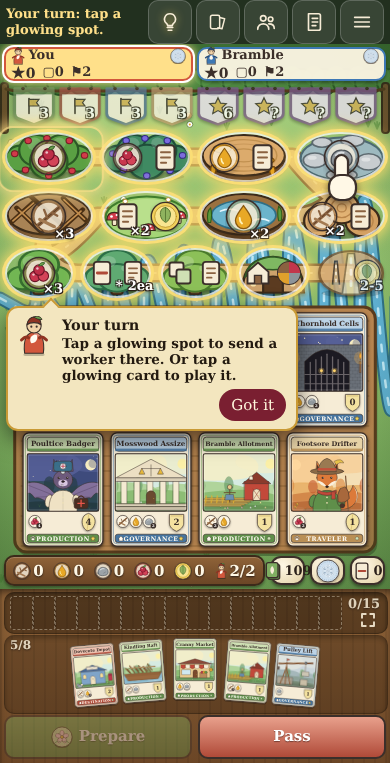
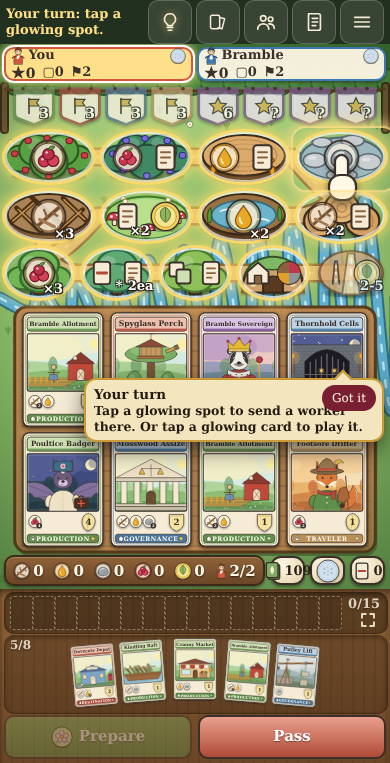
Hollowbough: compact help bubbles that avoid button centres, bulb no longer cancels an open choice, help screenshots

Changed region(s): [[0.0, 0.3919, 1.0, 0.6029], [0.0, 0.1507, 0.3077, 0.2713], [0.7385, 0.1507, 1.0, 0.2713]]

diff --git a/games-src/hollowbough/game/hollowbough.html b/games-src/hollowbough/game/hollowbough.html
@@ -621,6 +621,15 @@ html.cb .pawnw .gx-cbm{display:block}
 .gx-ref-pic .cd{flex:none}
 .gx-ref-pic .its{display:flex;flex-wrap:wrap;gap:2px;justify-content:center}
 .gx-ref-pic.big .its{gap:8px}
+/* help kit: a compact bubble (title, two lines, Got it on the title row) so it fits between the rows of the board without covering a place */
+.gxh-bub{max-width:min(300px,calc(100vw - 12px));padding:6px 8px}
+.gxh-bub .gxh-bd{display:block}
+.gxh-bub .gxh-sp{display:none}
+.gxh-bub .gxh-tt{font-size:13.5px;margin:0 0 1px;padding-right:70px}
+.gxh-bub .gxh-tx{font-size:12.5px;line-height:1.25}
+.gxh-bub .gxh-row2{position:absolute;top:5px;right:6px;margin:0}
+.gxh-bub .gxh-ok{min-height:26px;padding:0 10px;font-size:12px}
+.gxh-bub.gxh-bulbb .gxh-row2{position:static;margin-top:2px}
 </style></head>
 <body>
 <div class="gx-app">
@@ -5205,6 +5214,7 @@ function renderBoard() {
   renderPrompt();
   renderBar();
   placeFinger();
+  if (typeof hlpMarks === 'function' && G.phase !== 'over') hlpMarks();
 }
 // the whole city, full screen: 15 slots in a grid. Usable destinations glow here just as in the strip; tap outside to close.
 function cityOverlay(me, list, cityCard) {
@@ -5716,7 +5726,7 @@ document.addEventListener('click', ev => {
   const z = $('#zoom'); if (z && !z.hidden) { closeZoom(); return; }
   if (UI.lp) { UI.lp = false; return; }
   const t = ev.target.closest('[data-a],[data-start]');
-  if (!t) { if (UI.sel) { UI.sel = null; render(); } return; }
+  if (!t) { if (UI.sel && !ev.target.closest('[data-help]')) { UI.sel = null; render(); } return; }   // help (bulb, bubbles, rules cards) must not cancel an open choice
   const a = t.dataset.a, d = t.dataset;
   if (netClick(a, t)) return;
   if (d.start && !a) { newGame(d.start); return; }
@@ -6075,7 +6085,7 @@ const hq = s => () => document.querySelector(s);
 const hfirst = (...sels) => () => { for (const s of sels) { const e = document.querySelector(s); if (e && e.getBoundingClientRect().width) return e; } return null; };
 const HLP_STEPS = {
   turn: { target: () => { try { const m = UI.rec && UI.rec.m, e = m && hlpEl(m); if (e && e.getBoundingClientRect().width) return e; } catch (x) { } return hfirst('#bd .tile.glow', '#bd .glow:not(.tchip)', '#acts .btn')(); }, title: 'Your turn', text: 'Tap a glowing spot to send a worker there. Or tap a glowing card to play it.', pic: () => hnode(HP.worker) },
-  prepare: { target: hfirst('#acts .prep'), title: 'Prepare for next season', text: 'All your workers are out. Tap Prepare: they come home and you gain more workers.', pic: () => hnode(() => HP.season(1)) },
+  prepare: { target: hfirst('#acts .prep'), title: 'Time to prepare', text: 'All workers are out. Tap Prepare: they come home and you gain more.', pic: () => hnode(() => HP.season(1)) },
   lastCall: { target: hfirst('#acts .pass', '#acts .btn'), title: 'Nothing left to do?', text: 'Play a card if you can. Otherwise tap Pass twice: your city still scores.', pic: () => hnode(HP.tree) },
   how: { target: hfirst('#acts .tchip'), title: 'Choose how', text: 'This can be done in several ways. Tap the option you want.', pic: () => hnode(HP.cost) },
   pickCard: { target: hfirst('#bd .glow:not(.tchip)', '#acts .tchip'), title: 'Pick a card', text: 'The power needs a card. Tap one that glows.', pic: () => hnode(HP.card) },
@@ -6172,6 +6182,20 @@ function hlpSuggest() {
   return { why: hlpWhy(m, a), key: mk, m, target: () => { const e = hlpEl(m); return hlpEl(m); } };
 }
 // ---------------------------------------------------------------- wiring
+// the middle of every button is a spot a bubble must not cover (the kit avoids [data-gxh-avoid]); invisible 2px markers, redrawn with the board
+function hlpMarks() {
+  document.querySelectorAll('i.gxm').forEach(e => e.remove());
+  if (!G || !UI.started) return;
+  const W = innerWidth, H = innerHeight, f = document.createDocumentFragment();
+  document.querySelectorAll('button').forEach(b => {
+    if (b.closest('[data-help],[hidden],#start,#netbox')) return;
+    const r = b.getBoundingClientRect(); if (r.width < 4 || r.height < 4) return;
+    const x = r.left + r.width / 2, y = r.top + r.height / 2; if (x < 0 || y < 0 || x > W || y > H) return;
+    const m = document.createElement('i'); m.className = 'gxm'; m.setAttribute('data-gxh-avoid', ''); m.setAttribute('aria-hidden', 'true');
+    m.style.cssText = 'position:fixed;pointer-events:none;width:2px;height:2px;left:' + Math.round(x - 1) + 'px;top:' + Math.round(y - 1) + 'px'; f.appendChild(m);
+  });
+  document.body.appendChild(f);
+}
 let _hlpInit = false;
 function hlpInit() {
   if (_hlpInit || typeof GXH === 'undefined') return; _hlpInit = true;
@@ -6179,7 +6203,7 @@ function hlpInit() {
   GXH.bulb({ el: '#bulbbtn', suggest: hlpSuggest, rulesFor: hlpPhase });
 }
 function hlpAfter() {
-  hlpInit(); if (typeof GXH === 'undefined') return;
+  hlpInit(); hlpMarks(); clearTimeout(UI.hmk); UI.hmk = setTimeout(hlpMarks, 200);   // again just before a bubble is placed (things may still be moving) if (typeof GXH === 'undefined') return;
   const st = $('#start'), nb = $('#netbox');
   GXH.phase(!G || !UI.started || (st && !st.hidden) || (nb && !nb.hidden) ? null : hlpPhase());
 }

diff --git a/games-src/hollowbough/game/ui.js b/games-src/hollowbough/game/ui.js
@@ -432,6 +432,7 @@ function renderBoard() {
   renderPrompt();
   renderBar();
   placeFinger();
+  if (typeof hlpMarks === 'function' && G.phase !== 'over') hlpMarks();
 }
 // the whole city, full screen: 15 slots in a grid. Usable destinations glow here just as in the strip; tap outside to close.
 function cityOverlay(me, list, cityCard) {
@@ -943,7 +944,7 @@ document.addEventListener('click', ev => {
   const z = $('#zoom'); if (z && !z.hidden) { closeZoom(); return; }
   if (UI.lp) { UI.lp = false; return; }
   const t = ev.target.closest('[data-a],[data-start]');
-  if (!t) { if (UI.sel) { UI.sel = null; render(); } return; }
+  if (!t) { if (UI.sel && !ev.target.closest('[data-help]')) { UI.sel = null; render(); } return; }   // help (bulb, bubbles, rules cards) must not cancel an open choice
   const a = t.dataset.a, d = t.dataset;
   if (netClick(a, t)) return;
   if (d.start && !a) { newGame(d.start); return; }
@@ -1302,7 +1303,7 @@ const hq = s => () => document.querySelector(s);
 const hfirst = (...sels) => () => { for (const s of sels) { const e = document.querySelector(s); if (e && e.getBoundingClientRect().width) return e; } return null; };
 const HLP_STEPS = {
   turn: { target: () => { try { const m = UI.rec && UI.rec.m, e = m && hlpEl(m); if (e && e.getBoundingClientRect().width) return e; } catch (x) { } return hfirst('#bd .tile.glow', '#bd .glow:not(.tchip)', '#acts .btn')(); }, title: 'Your turn', text: 'Tap a glowing spot to send a worker there. Or tap a glowing card to play it.', pic: () => hnode(HP.worker) },
-  prepare: { target: hfirst('#acts .prep'), title: 'Prepare for next season', text: 'All your workers are out. Tap Prepare: they come home and you gain more workers.', pic: () => hnode(() => HP.season(1)) },
+  prepare: { target: hfirst('#acts .prep'), title: 'Time to prepare', text: 'All workers are out. Tap Prepare: they come home and you gain more.', pic: () => hnode(() => HP.season(1)) },
   lastCall: { target: hfirst('#acts .pass', '#acts .btn'), title: 'Nothing left to do?', text: 'Play a card if you can. Otherwise tap Pass twice: your city still scores.', pic: () => hnode(HP.tree) },
   how: { target: hfirst('#acts .tchip'), title: 'Choose how', text: 'This can be done in several ways. Tap the option you want.', pic: () => hnode(HP.cost) },
   pickCard: { target: hfirst('#bd .glow:not(.tchip)', '#acts .tchip'), title: 'Pick a card', text: 'The power needs a card. Tap one that glows.', pic: () => hnode(HP.card) },
@@ -1399,6 +1400,20 @@ function hlpSuggest() {
   return { why: hlpWhy(m, a), key: mk, m, target: () => { const e = hlpEl(m); return hlpEl(m); } };
 }
 // ---------------------------------------------------------------- wiring
+// the middle of every button is a spot a bubble must not cover (the kit avoids [data-gxh-avoid]); invisible 2px markers, redrawn with the board
+function hlpMarks() {
+  document.querySelectorAll('i.gxm').forEach(e => e.remove());
+  if (!G || !UI.started) return;
+  const W = innerWidth, H = innerHeight, f = document.createDocumentFragment();
+  document.querySelectorAll('button').forEach(b => {
+    if (b.closest('[data-help],[hidden],#start,#netbox')) return;
+    const r = b.getBoundingClientRect(); if (r.width < 4 || r.height < 4) return;
+    const x = r.left + r.width / 2, y = r.top + r.height / 2; if (x < 0 || y < 0 || x > W || y > H) return;
+    const m = document.createElement('i'); m.className = 'gxm'; m.setAttribute('data-gxh-avoid', ''); m.setAttribute('aria-hidden', 'true');
+    m.style.cssText = 'position:fixed;pointer-events:none;width:2px;height:2px;left:' + Math.round(x - 1) + 'px;top:' + Math.round(y - 1) + 'px'; f.appendChild(m);
+  });
+  document.body.appendChild(f);
+}
 let _hlpInit = false;
 function hlpInit() {
   if (_hlpInit || typeof GXH === 'undefined') return; _hlpInit = true;
@@ -1406,7 +1421,7 @@ function hlpInit() {
   GXH.bulb({ el: '#bulbbtn', suggest: hlpSuggest, rulesFor: hlpPhase });
 }
 function hlpAfter() {
-  hlpInit(); if (typeof GXH === 'undefined') return;
+  hlpInit(); hlpMarks(); clearTimeout(UI.hmk); UI.hmk = setTimeout(hlpMarks, 200);   // again just before a bubble is placed (things may still be moving) if (typeof GXH === 'undefined') return;
   const st = $('#start'), nb = $('#netbox');
   GXH.phase(!G || !UI.started || (st && !st.hidden) || (nb && !nb.hidden) ? null : hlpPhase());
 }

diff --git a/games-src/hollowbough/game/src/ui11.js b/games-src/hollowbough/game/src/ui11.js
@@ -18,7 +18,7 @@ const hq = s => () => document.querySelector(s);
 const hfirst = (...sels) => () => { for (const s of sels) { const e = document.querySelector(s); if (e && e.getBoundingClientRect().width) return e; } return null; };
 const HLP_STEPS = {
   turn: { target: () => { try { const m = UI.rec && UI.rec.m, e = m && hlpEl(m); if (e && e.getBoundingClientRect().width) return e; } catch (x) { } return hfirst('#bd .tile.glow', '#bd .glow:not(.tchip)', '#acts .btn')(); }, title: 'Your turn', text: 'Tap a glowing spot to send a worker there. Or tap a glowing card to play it.', pic: () => hnode(HP.worker) },
-  prepare: { target: hfirst('#acts .prep'), title: 'Prepare for next season', text: 'All your workers are out. Tap Prepare: they come home and you gain more workers.', pic: () => hnode(() => HP.season(1)) },
+  prepare: { target: hfirst('#acts .prep'), title: 'Time to prepare', text: 'All workers are out. Tap Prepare: they come home and you gain more.', pic: () => hnode(() => HP.season(1)) },
   lastCall: { target: hfirst('#acts .pass', '#acts .btn'), title: 'Nothing left to do?', text: 'Play a card if you can. Otherwise tap Pass twice: your city still scores.', pic: () => hnode(HP.tree) },
   how: { target: hfirst('#acts .tchip'), title: 'Choose how', text: 'This can be done in several ways. Tap the option you want.', pic: () => hnode(HP.cost) },
   pickCard: { target: hfirst('#bd .glow:not(.tchip)', '#acts .tchip'), title: 'Pick a card', text: 'The power needs a card. Tap one that glows.', pic: () => hnode(HP.card) },
@@ -115,6 +115,20 @@ function hlpSuggest() {
   return { why: hlpWhy(m, a), key: mk, m, target: () => { const e = hlpEl(m); return hlpEl(m); } };
 }
 // ---------------------------------------------------------------- wiring
+// the middle of every button is a spot a bubble must not cover (the kit avoids [data-gxh-avoid]); invisible 2px markers, redrawn with the board
+function hlpMarks() {
+  document.querySelectorAll('i.gxm').forEach(e => e.remove());
+  if (!G || !UI.started) return;
+  const W = innerWidth, H = innerHeight, f = document.createDocumentFragment();
+  document.querySelectorAll('button').forEach(b => {
+    if (b.closest('[data-help],[hidden],#start,#netbox')) return;
+    const r = b.getBoundingClientRect(); if (r.width < 4 || r.height < 4) return;
+    const x = r.left + r.width / 2, y = r.top + r.height / 2; if (x < 0 || y < 0 || x > W || y > H) return;
+    const m = document.createElement('i'); m.className = 'gxm'; m.setAttribute('data-gxh-avoid', ''); m.setAttribute('aria-hidden', 'true');
+    m.style.cssText = 'position:fixed;pointer-events:none;width:2px;height:2px;left:' + Math.round(x - 1) + 'px;top:' + Math.round(y - 1) + 'px'; f.appendChild(m);
+  });
+  document.body.appendChild(f);
+}
 let _hlpInit = false;
 function hlpInit() {
   if (_hlpInit || typeof GXH === 'undefined') return; _hlpInit = true;
@@ -122,7 +136,7 @@ function hlpInit() {
   GXH.bulb({ el: '#bulbbtn', suggest: hlpSuggest, rulesFor: hlpPhase });
 }
 function hlpAfter() {
-  hlpInit(); if (typeof GXH === 'undefined') return;
+  hlpInit(); hlpMarks(); clearTimeout(UI.hmk); UI.hmk = setTimeout(hlpMarks, 200);   // again just before a bubble is placed (things may still be moving) if (typeof GXH === 'undefined') return;
   const st = $('#start'), nb = $('#netbox');
   GXH.phase(!G || !UI.started || (st && !st.hidden) || (nb && !nb.hidden) ? null : hlpPhase());
 }

diff --git a/games-src/hollowbough/game/sweep.js b/games-src/hollowbough/game/sweep.js
@@ -89,7 +89,7 @@ async function playGame(browser, W, H, gi, mode) {
           if (!r.why || wc(r.why) > 15) fail(tag, 'bulb why ' + wc(r.why) + ' words: ' + r.why); if (!r.link) fail(tag, 'bulb bubble has no "How does this work?"');
           { const bad = await p.evaluate(() => { const W = innerWidth, Hh = innerHeight, b = document.querySelector('.gxh-bub.on'); if (!b) return []; const r = b.getBoundingClientRect(); return (r.left < -1 || r.top < -1 || r.right > W + 1 || r.bottom > Hh + 1) ? ['bulb bubble outside the screen'] : []; }); bad.forEach(x => fail(tag, x)); }
           if (R() < .5 && r.link) { const lk = await p.$('.gxh-bub .gxh-link'); const lb = lk && await lk.boundingBox(); if (lb) { await p.touchscreen.tap(lb.x + lb.width / 2, lb.y + lb.height / 2); await sleep(250); await rulesCheck(hs.ph); } }
-          else { await p.touchscreen.tap(...NEUTRAL); await sleep(150); }
+          else if (!(await p.evaluate(() => !!UI.sel))) { await p.touchscreen.tap(...NEUTRAL); await sleep(150); }
         } else { HT.nul++; if (r.f) fail(tag, 'bulb with no suggestion still pointed a finger (' + hs.ph + ')'); if (!r.rules) fail(tag, 'bulb with no suggestion did not open the rules (' + hs.ph + ')'); else await rulesCheck(hs.ph); }
         await p.evaluate(() => GXH.hide());
         const a = await p.evaluate(() => ({ g: !!document.querySelector('.gxh-bub,.gxh-ring,.gxh-finger,.gxh-rules'), sig: G.logN + '|' + (UI.sel ? 's' : '') + '|' + (G.q ? G.q.kind : '') }));

diff --git a/games-src/hollowbough/game/src/ui6.js b/games-src/hollowbough/game/src/ui6.js
@@ -72,7 +72,7 @@ document.addEventListener('click', ev => {
   const z = $('#zoom'); if (z && !z.hidden) { closeZoom(); return; }
   if (UI.lp) { UI.lp = false; return; }
   const t = ev.target.closest('[data-a],[data-start]');
-  if (!t) { if (UI.sel) { UI.sel = null; render(); } return; }
+  if (!t) { if (UI.sel && !ev.target.closest('[data-help]')) { UI.sel = null; render(); } return; }   // help (bulb, bubbles, rules cards) must not cancel an open choice
   const a = t.dataset.a, d = t.dataset;
   if (netClick(a, t)) return;
   if (d.start && !a) { newGame(d.start); return; }

diff --git a/games-src/hollowbough/game/head.html b/games-src/hollowbough/game/head.html
@@ -287,7 +287,7 @@ html.cb .pawnw .gx-cbm{display:block}
 .gx-ref-pic .its{display:flex;flex-wrap:wrap;gap:2px;justify-content:center}
 .gx-ref-pic.big .its{gap:8px}
 /* help kit: a compact bubble (title, two lines, Got it on the title row) so it fits between the rows of the board without covering a place */
-.gxh-bub{max-width:min(358px,calc(100vw - 12px));padding:6px 8px}
+.gxh-bub{max-width:min(300px,calc(100vw - 12px));padding:6px 8px}
 .gxh-bub .gxh-bd{display:block}
 .gxh-bub .gxh-sp{display:none}
 .gxh-bub .gxh-tt{font-size:13.5px;margin:0 0 1px;padding-right:70px}

diff --git a/games-src/hollowbough/game/src/ui2.js b/games-src/hollowbough/game/src/ui2.js
@@ -336,6 +336,7 @@ function renderBoard() {
   renderPrompt();
   renderBar();
   placeFinger();
+  if (typeof hlpMarks === 'function' && G.phase !== 'over') hlpMarks();
 }
 // the whole city, full screen: 15 slots in a grid. Usable destinations glow here just as in the strip; tap outside to close.
 function cityOverlay(me, list, cityCard) {
